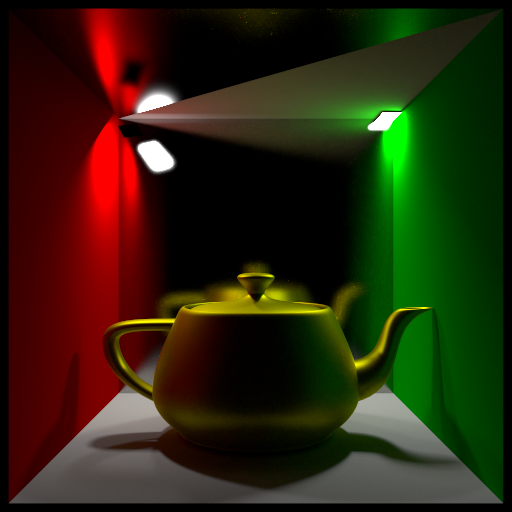
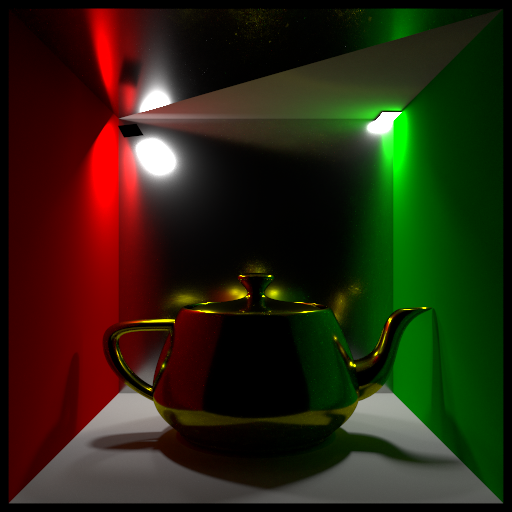
edit

diff --git a/tests_lights2.cpp b/tests_lights2.cpp
@@ -1555,14 +1555,13 @@ namespace LGHT_TESTS
       xml_node diff = matNode.append_child(L"diffuse");
 
       diff.append_attribute(L"brdf_type").set_value(L"lambert");
-      diff.append_child(L"color").append_attribute(L"val").set_value(L"0.207843 0.188235 0");
+      diff.append_child(L"color").append_attribute(L"val").set_value(L"0 0 0");
 
       xml_node refl = matNode.append_child(L"reflectivity");
 
-      refl.append_attribute(L"brdf_type").set_value(L"phong");
+      refl.append_attribute(L"brdf_type").set_value(L"ggx");
       refl.append_child(L"color").append_attribute(L"val").set_value(L"0.367059 0.345882 0");
-      refl.append_child(L"glossiness").append_attribute(L"val").set_value(L"0.5");
-      refl.append_child(L"energy_fix").append_attribute(L"val") = 1;
+      refl.append_child(L"glossiness").append_attribute(L"val").set_value(L"0.85");
     }
     hrMaterialClose(mat1);
 
@@ -1660,10 +1659,9 @@ namespace LGHT_TESTS
 
       xml_node refl = matNode.append_child(L"reflectivity");
 
-      refl.append_attribute(L"brdf_type").set_value(L"phong");
+      refl.append_attribute(L"brdf_type").set_value(L"ggx");
       refl.append_child(L"color").append_attribute(L"val").set_value(L"0.4 0.4 0.4");
       refl.append_child(L"glossiness").append_attribute(L"val").set_value(L"0.85");
-      refl.append_child(L"energy_fix").append_attribute(L"val") = 1;
     }
     hrMaterialClose(mat9);
 
